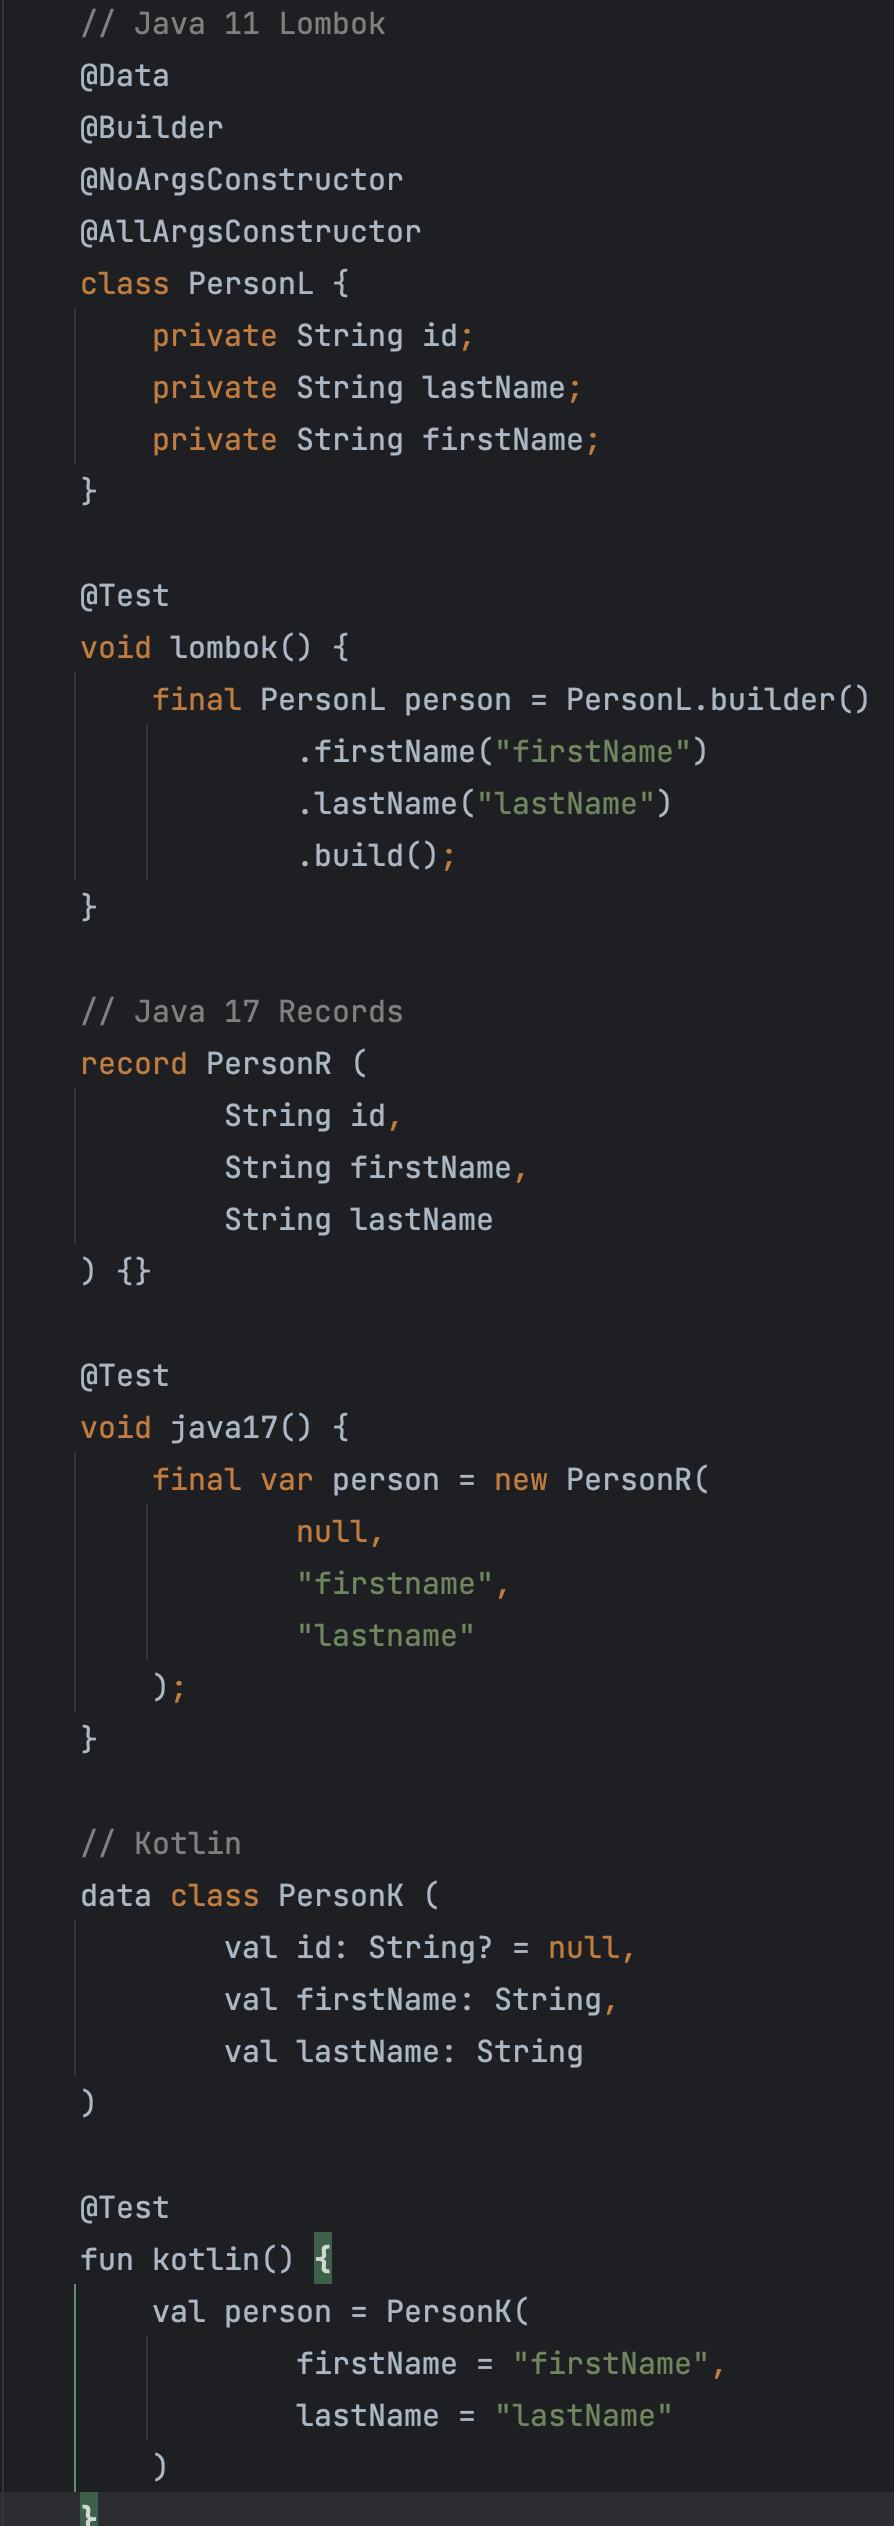
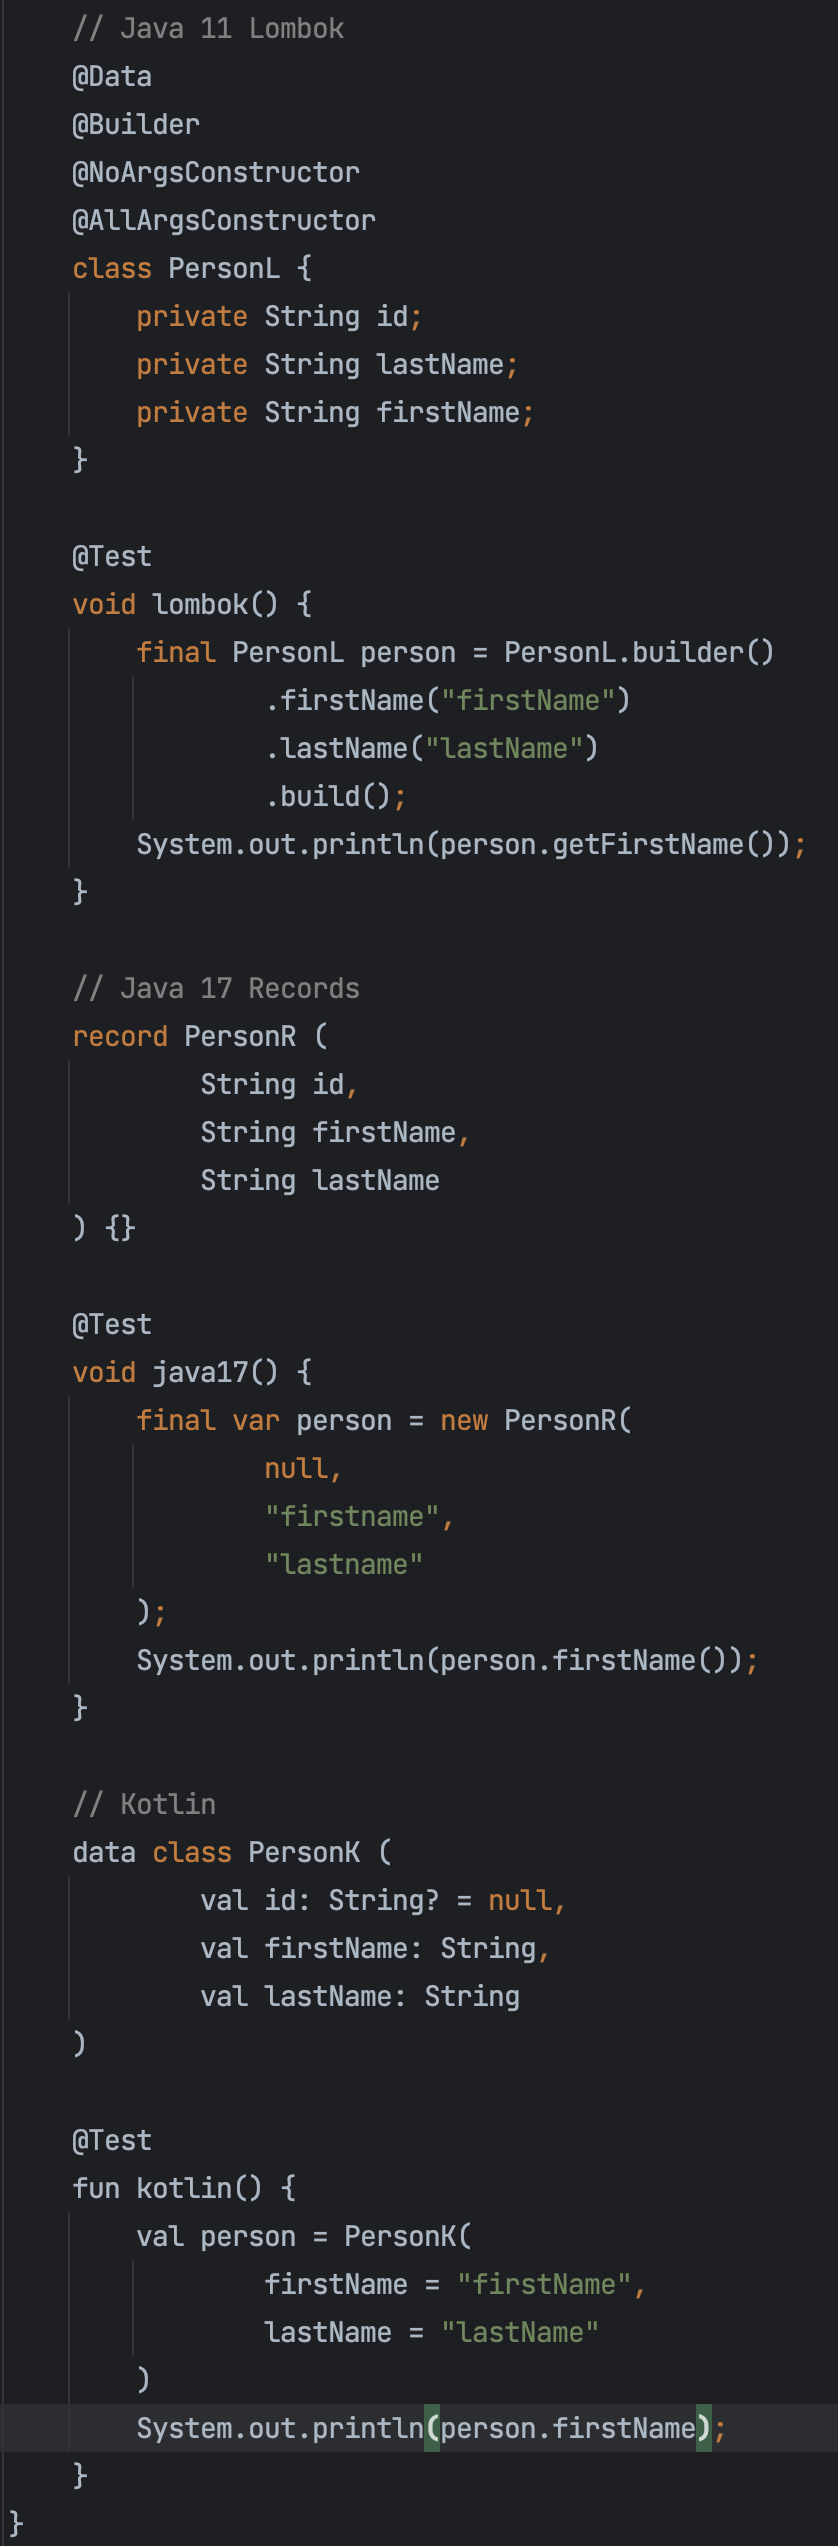
Pojotest added

diff --git a/doc/pojo/PojoTest.java b/doc/pojo/PojoTest.java
@@ -25,6 +25,7 @@ public class PojoTest {
                 .firstName("firstName")
                 .lastName("lastName")
                 .build();
+        System.out.println(person.getFirstName());
     }
 
     // Java 17 Records
@@ -41,6 +42,7 @@ public class PojoTest {
                 "firstname",
                 "lastname"
         );
+        System.out.println(person.firstName());
     }
 
     // Kotlin
@@ -56,5 +58,6 @@ public class PojoTest {
                 firstName = "firstName",
                 lastName = "lastName"
         )
+        System.out.println(person.firstName);
     }
 }
